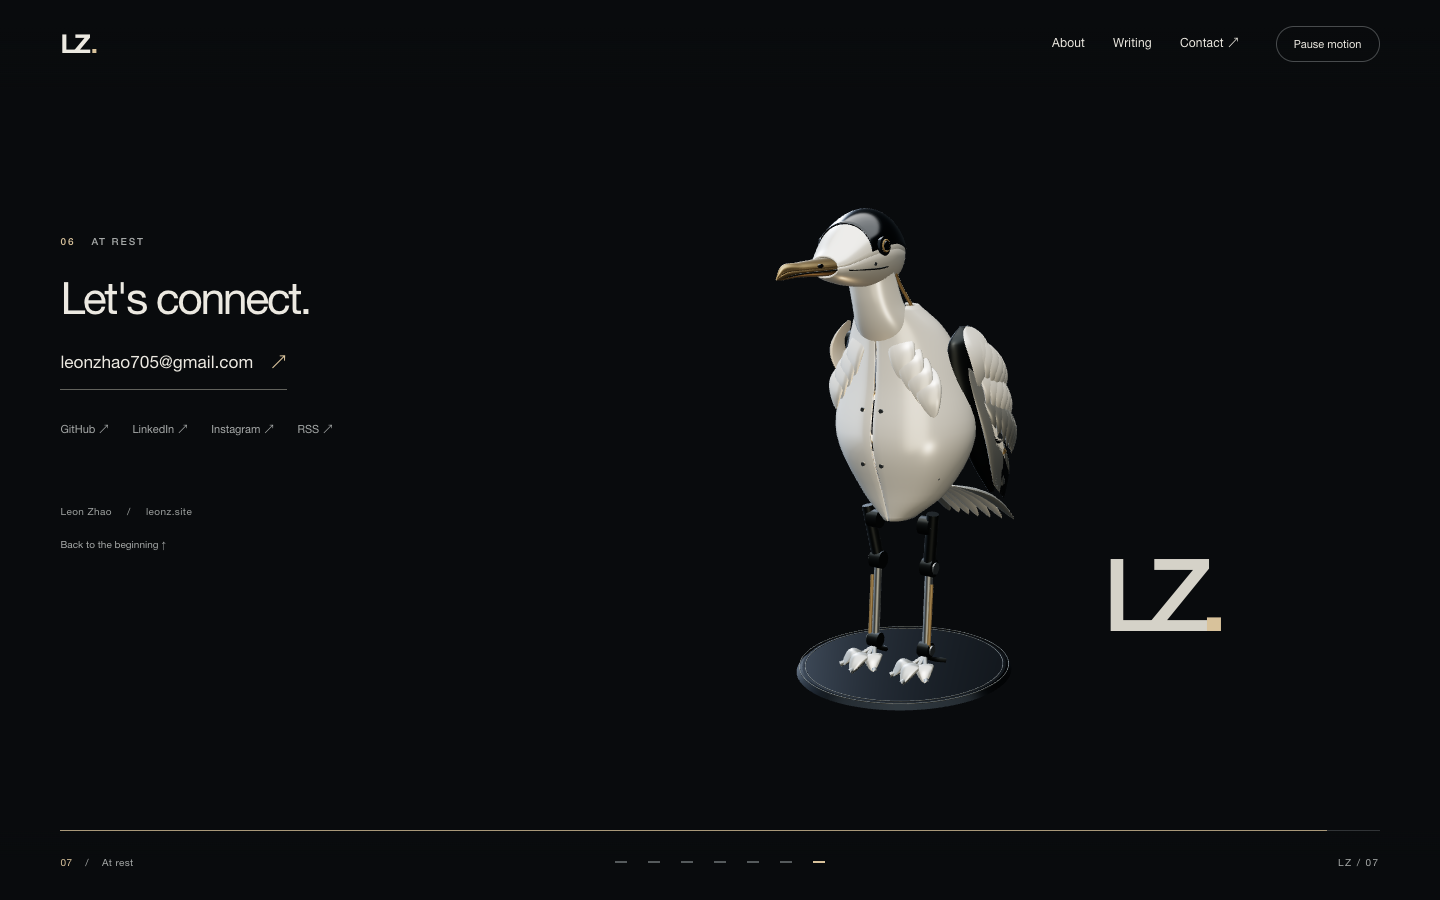
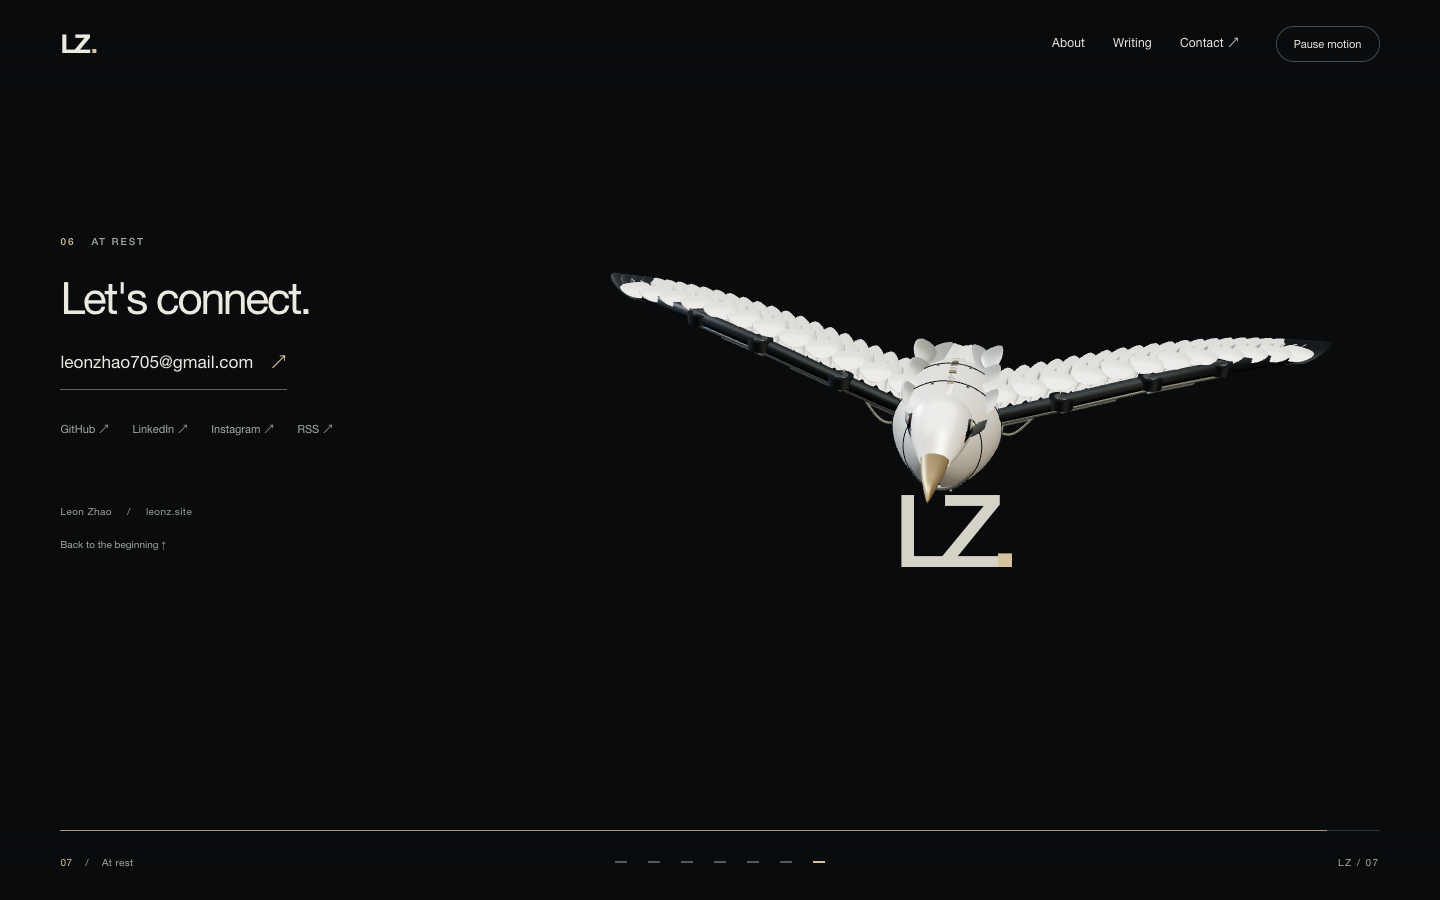
Restore original flying seagull design

Changed region(s): [[0.4062, 0.2178, 0.9375, 0.8089], [0.75, 0.6222, 0.8438, 0.7156]]

diff --git a/assets/js/portfolio/Geometry.js b/assets/js/portfolio/Geometry.js
@@ -2,13 +2,12 @@ import * as T from '../../vendor/three/three.module.min.js';
 
 // A smooth, elliptical loft: sections = [z, half width, half height, center y].
 // Partial angular ranges make separate fitted armor panels from the same surface.
-export function loft(sections, { start = 0, end = Math.PI * 2, rings = 32, sides = 32, tStart = 0, tEnd = 1 } = {}) {
+export function loft(sections, { start = 0, end = Math.PI * 2, rings = 32, sides = 32 } = {}) {
   const profile = new T.CatmullRomCurve3(sections.map(s => new T.Vector3(s[0], s[1], s[2])));
   const centers = new T.CatmullRomCurve3(sections.map(s => new T.Vector3(s[0], s[3] || 0, 0)));
   const positions = [], indices = [];
   for (let i = 0; i <= rings; i++) {
-    const t = tStart + (tEnd - tStart) * i / rings;
-    const p = profile.getPoint(t), c = centers.getPoint(t);
+    const p = profile.getPoint(i / rings), c = centers.getPoint(i / rings);
     for (let j = 0; j <= sides; j++) {
       const a = start + (end - start) * j / sides;
       positions.push(Math.max(.001, p.y) * Math.cos(a), c.y + Math.max(.001, p.z) * Math.sin(a), p.x);
@@ -56,22 +55,4 @@ export function rod(a, b, radius, material) {
 
 export function curveTube(points, radius, material, segments = 20) {
   return new T.Mesh(new T.TubeGeometry(new T.CatmullRomCurve3(points.map(p => new T.Vector3(...p))), segments, radius, 6, false), material);
-}
-
-export function verticalLoft(sections, options={}) {
-  return loft(sections.map(([y,rx,rz,cz=0])=>[y,rx,rz,-cz]),options).rotateX(-Math.PI/2);
-}
-
-export function thicken(geometry,depth=.018) {
-  const src=geometry.attributes.position,norm=geometry.attributes.normal,n=src.count;
-  const p=[],indices=[...geometry.index.array],edges=new Map();
-  for(let i=0;i<n;i++)p.push(src.getX(i),src.getY(i),src.getZ(i));
-  for(let i=0;i<n;i++)p.push(src.getX(i)-norm.getX(i)*depth,src.getY(i)-norm.getY(i)*depth,src.getZ(i)-norm.getZ(i)*depth);
-  const original=[...indices];
-  for(let i=0;i<original.length;i+=3){
-    const [a,b,c]=original.slice(i,i+3);indices.push(c+n,b+n,a+n);
-    for(const [u,v] of [[a,b],[b,c],[c,a]]){const key=u<v?`${u}:${v}`:`${v}:${u}`;if(edges.has(key))edges.delete(key);else edges.set(key,[u,v]);}
-  }
-  for(const [u,v] of edges.values())indices.push(u,v+n,v,u,u+n,v+n);
-  geometry.dispose();return surface(p,indices);
 }

diff --git a/assets/js/portfolio/Lighting.js b/assets/js/portfolio/Lighting.js
@@ -1,8 +1,8 @@
 import * as T from '../../vendor/three/three.module.min.js';
 export function createLighting(scene, renderer) {
   scene.add(new T.HemisphereLight(0xe8edf0,0x35302a,.8));
-  const key = new T.DirectionalLight(0xfff0e1,2.3); key.position.set(2,6,5); scene.add(key);
-  const rim = new T.DirectionalLight(0xc4d6ef,3.1); rim.position.set(-5,3,-4); scene.add(rim);
+  const key = new T.DirectionalLight(0xfff0d9,2.8); key.position.set(2,6,5); scene.add(key);
+  const rim = new T.DirectionalLight(0xdbe4ef,2.6); rim.position.set(-5,3,-4); scene.add(rim);
   const fill = new T.DirectionalLight(0xf6e3c7,.5); fill.position.set(3,-2,2); scene.add(fill);
   // A tiny procedural studio environment gives metal a broad, controlled reflection.
   const studio=new T.Scene(); studio.background=new T.Color(0x32383d);

diff --git a/assets/css/portfolio.css b/assets/css/portfolio.css
@@ -66,7 +66,6 @@ h2{font-size:clamp(29px,3.1vw,47px);margin-bottom:26px}
   html{scroll-padding-top:70px}.portfolio-nav{padding:20px 22px;gap:12px}.wordmark{font-size:24px}.portfolio-nav nav{gap:17px;font-size:11px}.motion-button{position:fixed;top:76px;right:22px;min-height:32px;min-width:92px;font-size:10px;padding:6px 10px;background:#090b0dbb}
   .seagull-stage{left:0;right:0;top:80px;height:38svh;background:var(--paper);z-index:2}
   .assembly-mark{font-size:48px;top:74%}
-  .seagull-poster{object-fit:cover}
   .chapter{min-height:115svh;padding:calc(46svh + 40px) 26px 110px;align-items:flex-start}
   .chapter-copy,.chapter-intro .chapter-copy{position:relative;top:auto;width:100%;max-width:none}
   .chapter-about .chapter-copy{top:auto}

diff --git a/docs/portfolio/README.md b/docs/portfolio/README.md
@@ -1,6 +1,6 @@
 # Robotic seagull portfolio
 
-The homepage presents Leon Zhao's existing bio and three articles alongside a standing, scroll-driven mechanical seagull. The bird separates into perception, structure, movement and connection assemblies, then returns around a typographic LZ mark. The implementation extends the existing Jekyll site with browser-native ES modules and Three.js 0.186.0.
+The homepage presents Leon Zhao's existing bio and three articles alongside a scroll-driven mechanical seagull. The bird separates into perception, structure, movement and connection assemblies, then returns around a typographic LZ mark. The implementation extends the existing Jekyll site with browser-native ES modules and Three.js 0.186.0.
 
 ## Content and deployment
 
@@ -29,7 +29,7 @@ The existing Pages deployment workflow remains unchanged and deploys only from `
 | Renderer lifecycle, pointer damping, focus response, pause, cleanup | `assets/js/portfolio/Experience.js` |
 | Deferred loading, quality choices and static state | `boot.js`, `QualityController.js`, `StaticFallback.js` in the same directory |
 
-The standing model uses a fuller curved chest, a short ceramic neck, smoked canopy, overlapping folded feather plates, articulated legs and webbed feet. A slim machined plinth anchors the sculpture. Thickened lofted armor separates to reveal metal rails, pistons, ribs and a warm core. The wings open outward during disassembly and fold back into the planted pose. It has explicit parent relationships and local pivots. The same interpolation paths run forward and backward; no cumulative rotations or physics impulses are used. Cables rebuild only when their endpoints change. Idle motion fades out before contact, and all parts reach their exact assembled transforms by 94% progress.
+The model uses smooth lofted surfaces, cambered feather blades, metal rails, pistons and ribs. It has explicit parent relationships and local pivots. The same interpolation paths run forward and backward; no cumulative rotations or physics impulses are used. Cables rebuild only when their endpoints change. Idle motion fades out before contact, and all parts reach their exact assembled transforms by 94% progress.
 
 No React migration, smooth-scroll hijack, scroll snapping, animation gate, image sequence or external model service is required. The finished bird is a reusable procedural assembly rather than a GLB.
 
@@ -89,12 +89,12 @@ node scripts/capture-model.mjs
 
 `scripts/measure.mjs` scrolls through the page across 180 animation frames. This is a development-Mac headless Chrome sample, not a real-device mobile benchmark.
 
-| Viewport | Mean frame interval | Mean frame rate | Bird geometry excluding cables and plinth |
+| Viewport | Mean frame interval | Mean frame rate | Geometry excluding cables |
 | --- | --- | --- | --- |
-| 1440×900 | 16.67 ms | 60 fps | 106,896 triangles / 250 meshes |
-| 390×844 emulation | 16.67 ms | 60 fps | 57,864 triangles / 204 meshes |
+| 1440×900 | 16.67 ms | 60 fps | 69,440 triangles / 209 meshes |
+| 390×844 emulation | 16.67 ms | 60 fps | 45,536 triangles / 149 meshes |
 
-The vendored Three.js module is 742,309 bytes, or 190,855 bytes when gzipped; the WebP poster is 18,346 bytes. Actual transfer compression depends on the host. No realtime shadows, transmission, bloom passes or external textures are used.
+The vendored Three.js module is 742,309 bytes, or 190,855 bytes when gzipped; the WebP poster is 18,386 bytes. Actual transfer compression depends on the host. No realtime shadows, transmission, bloom passes or external textures are used.
 
 ## Limits
 
